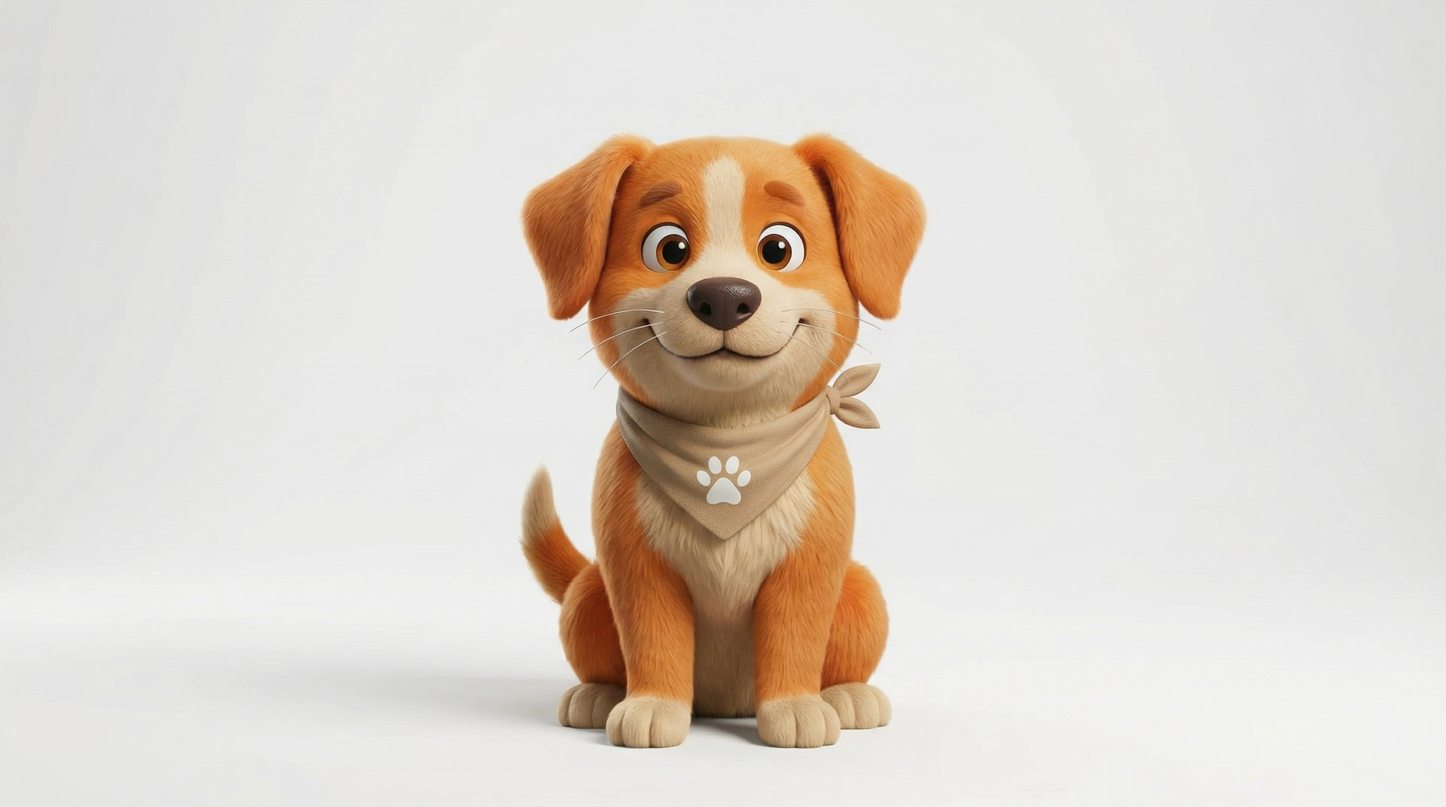
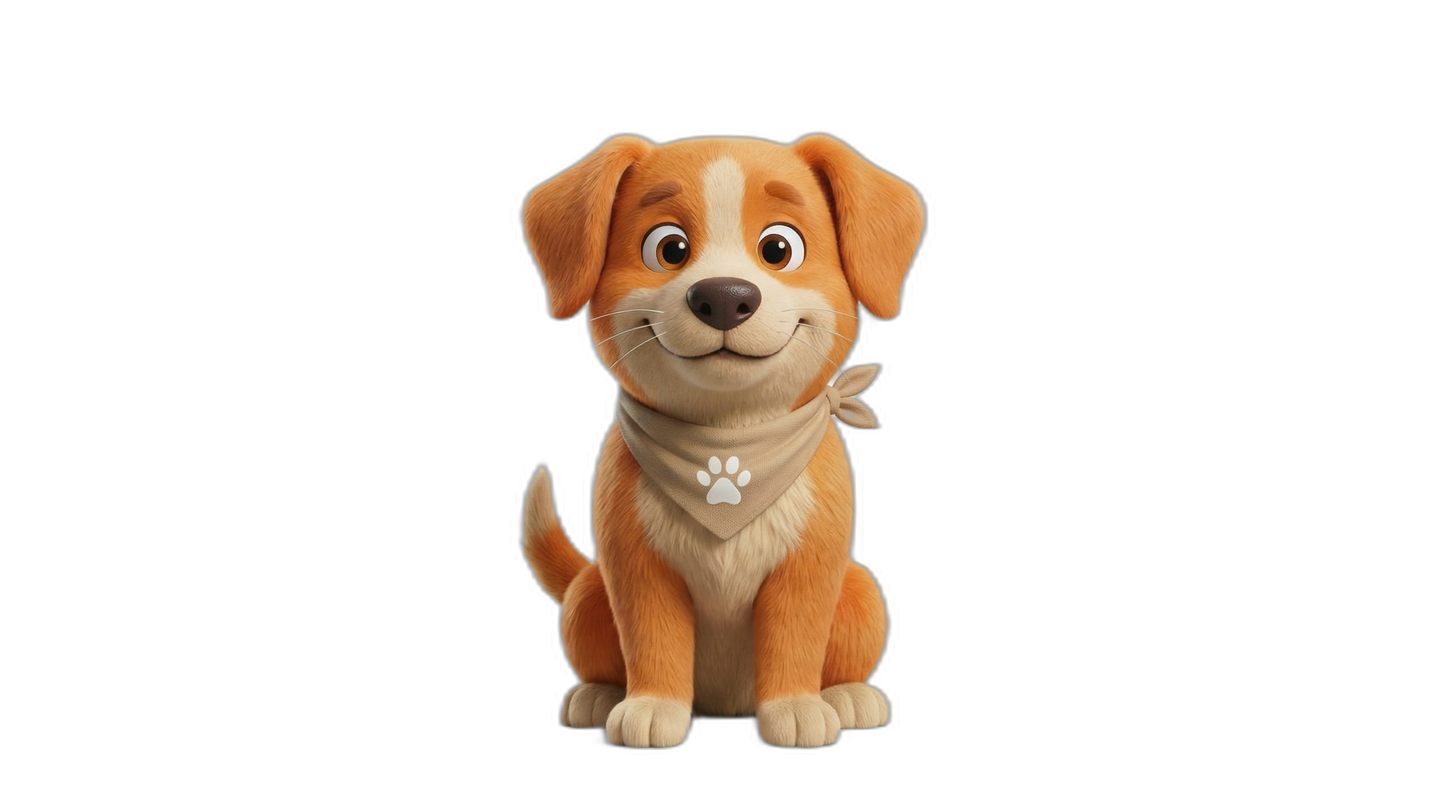
fix: remove backgrounds from mascot images and blend videos seamlessly
- Removed backgrounds from cairo.png, luna.png, cairo-luna.png using rembg
  (transparent PNGs now blend cleanly with white page)
- Added mix-blend-multiply to scroll video elements so white video
  backgrounds become invisible against the white page
- Switched hero from cairo-luna.jpeg to transparent cairo-luna.png
- Deleted old cairo-luna.jpeg

diff --git a/src/components/website/ScrollVideoHero.tsx b/src/components/website/ScrollVideoHero.tsx
@@ -149,7 +149,7 @@ export function ScrollVideoHero({
                 muted
                 playsInline
                 preload="auto"
-                className="w-full max-w-[600px] lg:max-w-none aspect-square object-contain will-change-transform"
+                className="w-full max-w-[600px] lg:max-w-none aspect-square object-contain will-change-transform mix-blend-multiply"
               />
             </div>
           </div>

diff --git a/src/components/website/TextHero.tsx b/src/components/website/TextHero.tsx
@@ -78,7 +78,7 @@ export function TextHero({
           <div className="flex items-center justify-center relative">
             <div className="relative w-full max-w-[480px]">
               <Image
-                src="/mascots/cairo-luna.jpeg"
+                src="/mascots/cairo-luna.png"
                 alt="Cairo & Luna — PAWS Egypt mascots"
                 width={800}
                 height={450}
